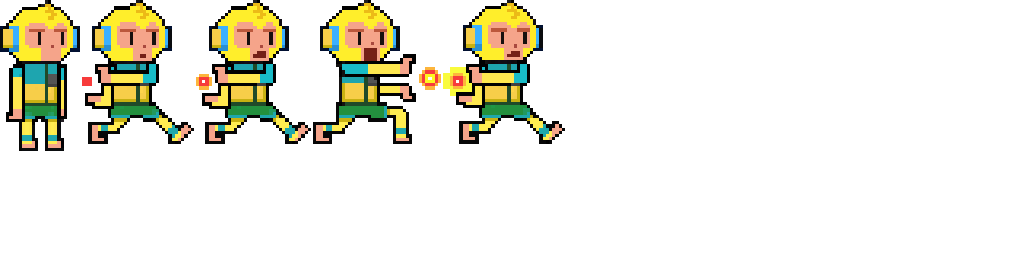
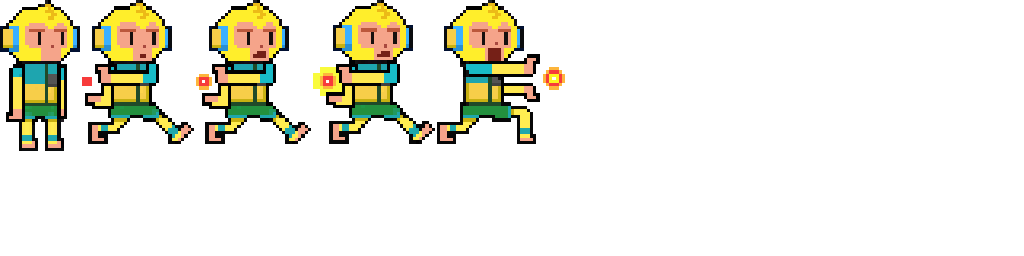
更新猴子动画资源 增加猴子攻击判定

Changed region(s): [[0.2812, 0.0, 0.5625, 0.5625]]

diff --git a/src/PhyConst.h b/src/PhyConst.h
@@ -62,20 +62,20 @@ const cocos2d::PhysicsMaterial MY_PHYSICSBODY_MATERIAL_FRICTION(0.0f, 0.0f, 100.
 #define FORT_BULLET_SPEED       (600)
 
 
-#define AUDIO_BRIDGE           "audio/bridge.wav"
-#define AUDIO_BULLET           "audio/bullet.wav"
-#define AUDIO_BUTTON_CLICK           "audio/button_click.wav"
-#define AUDIO_CHANGE_CHARACTER           "audio/change_character.wav"
-#define AUDIO_GAME_OVER          "audio/game_over.wav"
-#define AUDIO_GATE         "audio/gate.wav"
-#define AUDIO_JUMP         "audio/jump.wav"
-#define AUDIO_LOGO         "audio/logo.wav"
-#define AUDIO_MONKEY_2ND_JUMP         "audio/monkey_2nd_jump.wav"
-#define AUDIO_MONKEY_FIGHT         "audio/monkey_fight.wav"
-#define AUDIO_PIG_FIGHT          "audio/pig_fight.wav"
-#define AUDIO_PIG_PUSH          "audio/pig_push.wav"
-#define AUDIO_STONE          "audio/stone.wav"
-#define AUDIO_SUCCESS          "audio/success.wav"
+#define AUDIO_BRIDGE           "audio/bridge.ogg"
+#define AUDIO_BULLET           "audio/bullet.ogg"
+#define AUDIO_BUTTON_CLICK           "audio/button_click.ogg"
+#define AUDIO_CHANGE_CHARACTER           "audio/change_character.ogg"
+#define AUDIO_GAME_OVER          "audio/game_over.ogg"
+#define AUDIO_GATE         "audio/gate.ogg"
+#define AUDIO_JUMP         "audio/jump.ogg"
+#define AUDIO_LOGO         "audio/logo.ogg"
+#define AUDIO_MONKEY_2ND_JUMP         "audio/monkey_2nd_jump.ogg"
+#define AUDIO_MONKEY_FIGHT         "audio/monkey_fight.ogg"
+#define AUDIO_PIG_FIGHT          "audio/pig_fight.ogg"
+#define AUDIO_PIG_PUSH          "audio/pig_push.ogg"
+#define AUDIO_STONE          "audio/stone.ogg"
+#define AUDIO_SUCCESS          "audio/success.ogg"
 
 
 

diff --git a/src/GameScene.cpp b/src/GameScene.cpp
@@ -184,13 +184,26 @@ bool GameScene::onContactBegin(PhysicsContact& contact)
     if (getContactObject(&spriteA, &spriteB, sprite1, sprite2, ITEM_TAG, EDGE_TAG))
     {
         BulletSprite * aBulletSprite = dynamic_cast<BulletSprite*>(spriteA);
-        return BulletSprite::contactEdgeHandler(aBulletSprite, spriteB);
+		CCASSERT(aBulletSprite,"invaild bullet");
+        aBulletSprite->contactHandler();
+		return true;//必须return，对象已经销毁了
 	}
 	else if(getContactObject(&spriteA, &spriteB, sprite1, sprite2, ITEM_TAG, BACKGROUND_TAG))
     {
         BulletSprite * aBulletSprite = dynamic_cast<BulletSprite*>(spriteA);
-        return BulletSprite::contactEdgeHandler(aBulletSprite, spriteB);
+        aBulletSprite->contactHandler();
+		return true;
     }
+	else if(getContactObject(&spriteA, &spriteB, sprite1, sprite2, ITEM_TAG, NPC_TAG))
+	{
+		BulletSprite * aBulletSprite = dynamic_cast<BulletSprite*>(spriteA);
+		CCASSERT(aBulletSprite,"invaild bullet");
+		aBulletSprite->contactHandler();
+		NPCSprite * npc = dynamic_cast<NPCSprite*>(spriteB);
+		CCASSERT(npc, "invaild npc");
+		npc->onHurt();
+		return true;
+	}
 	else if (getContactObject(&spriteA, &spriteB, sprite1, sprite2, PLAYER_TAG, BRIDGE_TAG))
 	{
 		//Player* player = dynamic_cast<Player*>(spriteA);

diff --git a/src/BulletSprite.cpp b/src/BulletSprite.cpp
@@ -46,17 +46,16 @@ void BulletSprite::shoot(float speedX, float speedY)
     m_bullet->setSpeed(Vec2(speedX, speedY));
 }
 
-bool BulletSprite::contactEdgeHandler(BulletSprite * bullet, Sprite * edge)
+void BulletSprite::contactHandler()
 {
-    bullet->removeFromParentAndCleanup(true);
+    removeFromParentAndCleanup(true);
     LOGD("destory bullet now for edge");
-    return false;
 }
 
-bool contactGroundHandler(BulletSprite * bullet, Sprite * edge)
-{
-    bullet->removeFromParentAndCleanup(true);
-    LOGD("destory bullet now for ground");
-    return false;
-}
+//bool contactGroundHandler(BulletSprite * bullet, Sprite * edge)
+//{
+//    bullet->removeFromParentAndCleanup(true);
+//    LOGD("destory bullet now for ground");
+//    return false;
+//}
 

diff --git a/src/BulletSprite.h b/src/BulletSprite.h
@@ -23,8 +23,8 @@ public:
     cocos2d::Vec2 m_normal;
 
 public:
-    static bool contactEdgeHandler(BulletSprite * bullet, Sprite * edge);
-    static bool contactGroundHandler(BulletSprite * bullet, Sprite * edge);
+    void contactHandler();
+    /*static bool contactGroundHandler(BulletSprite * bullet, Sprite * edge);*/
 
 };
 
